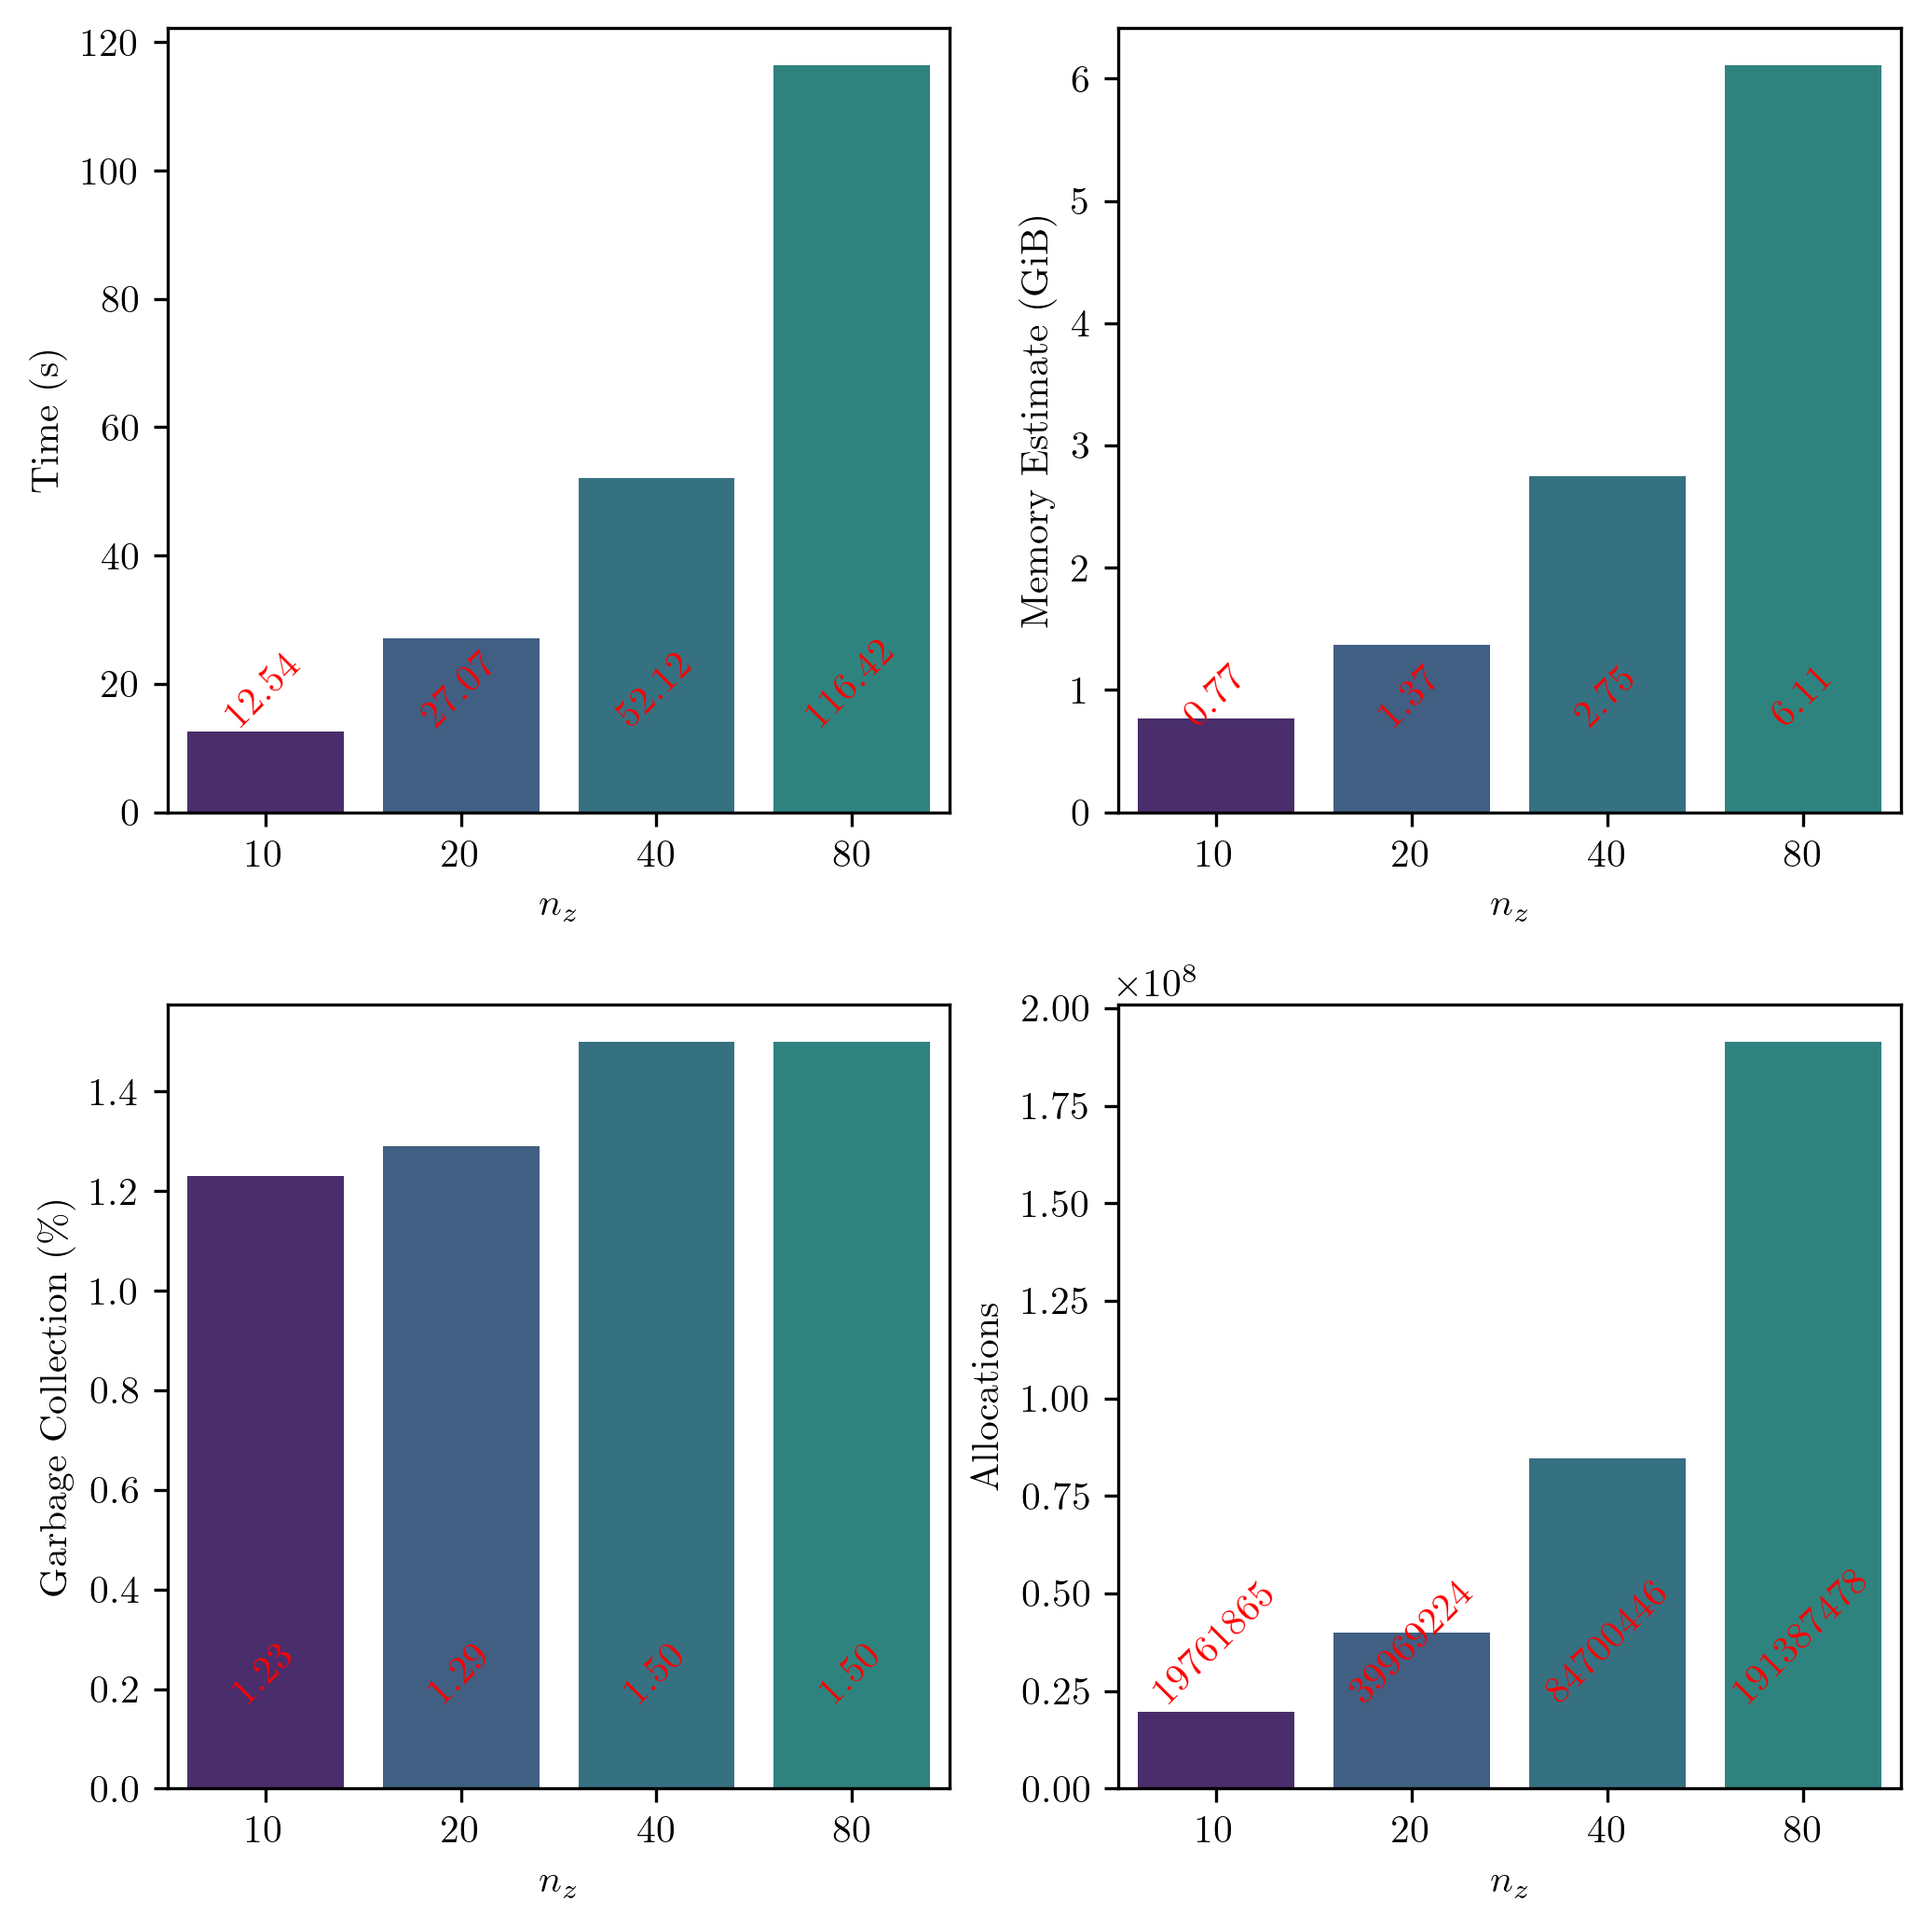
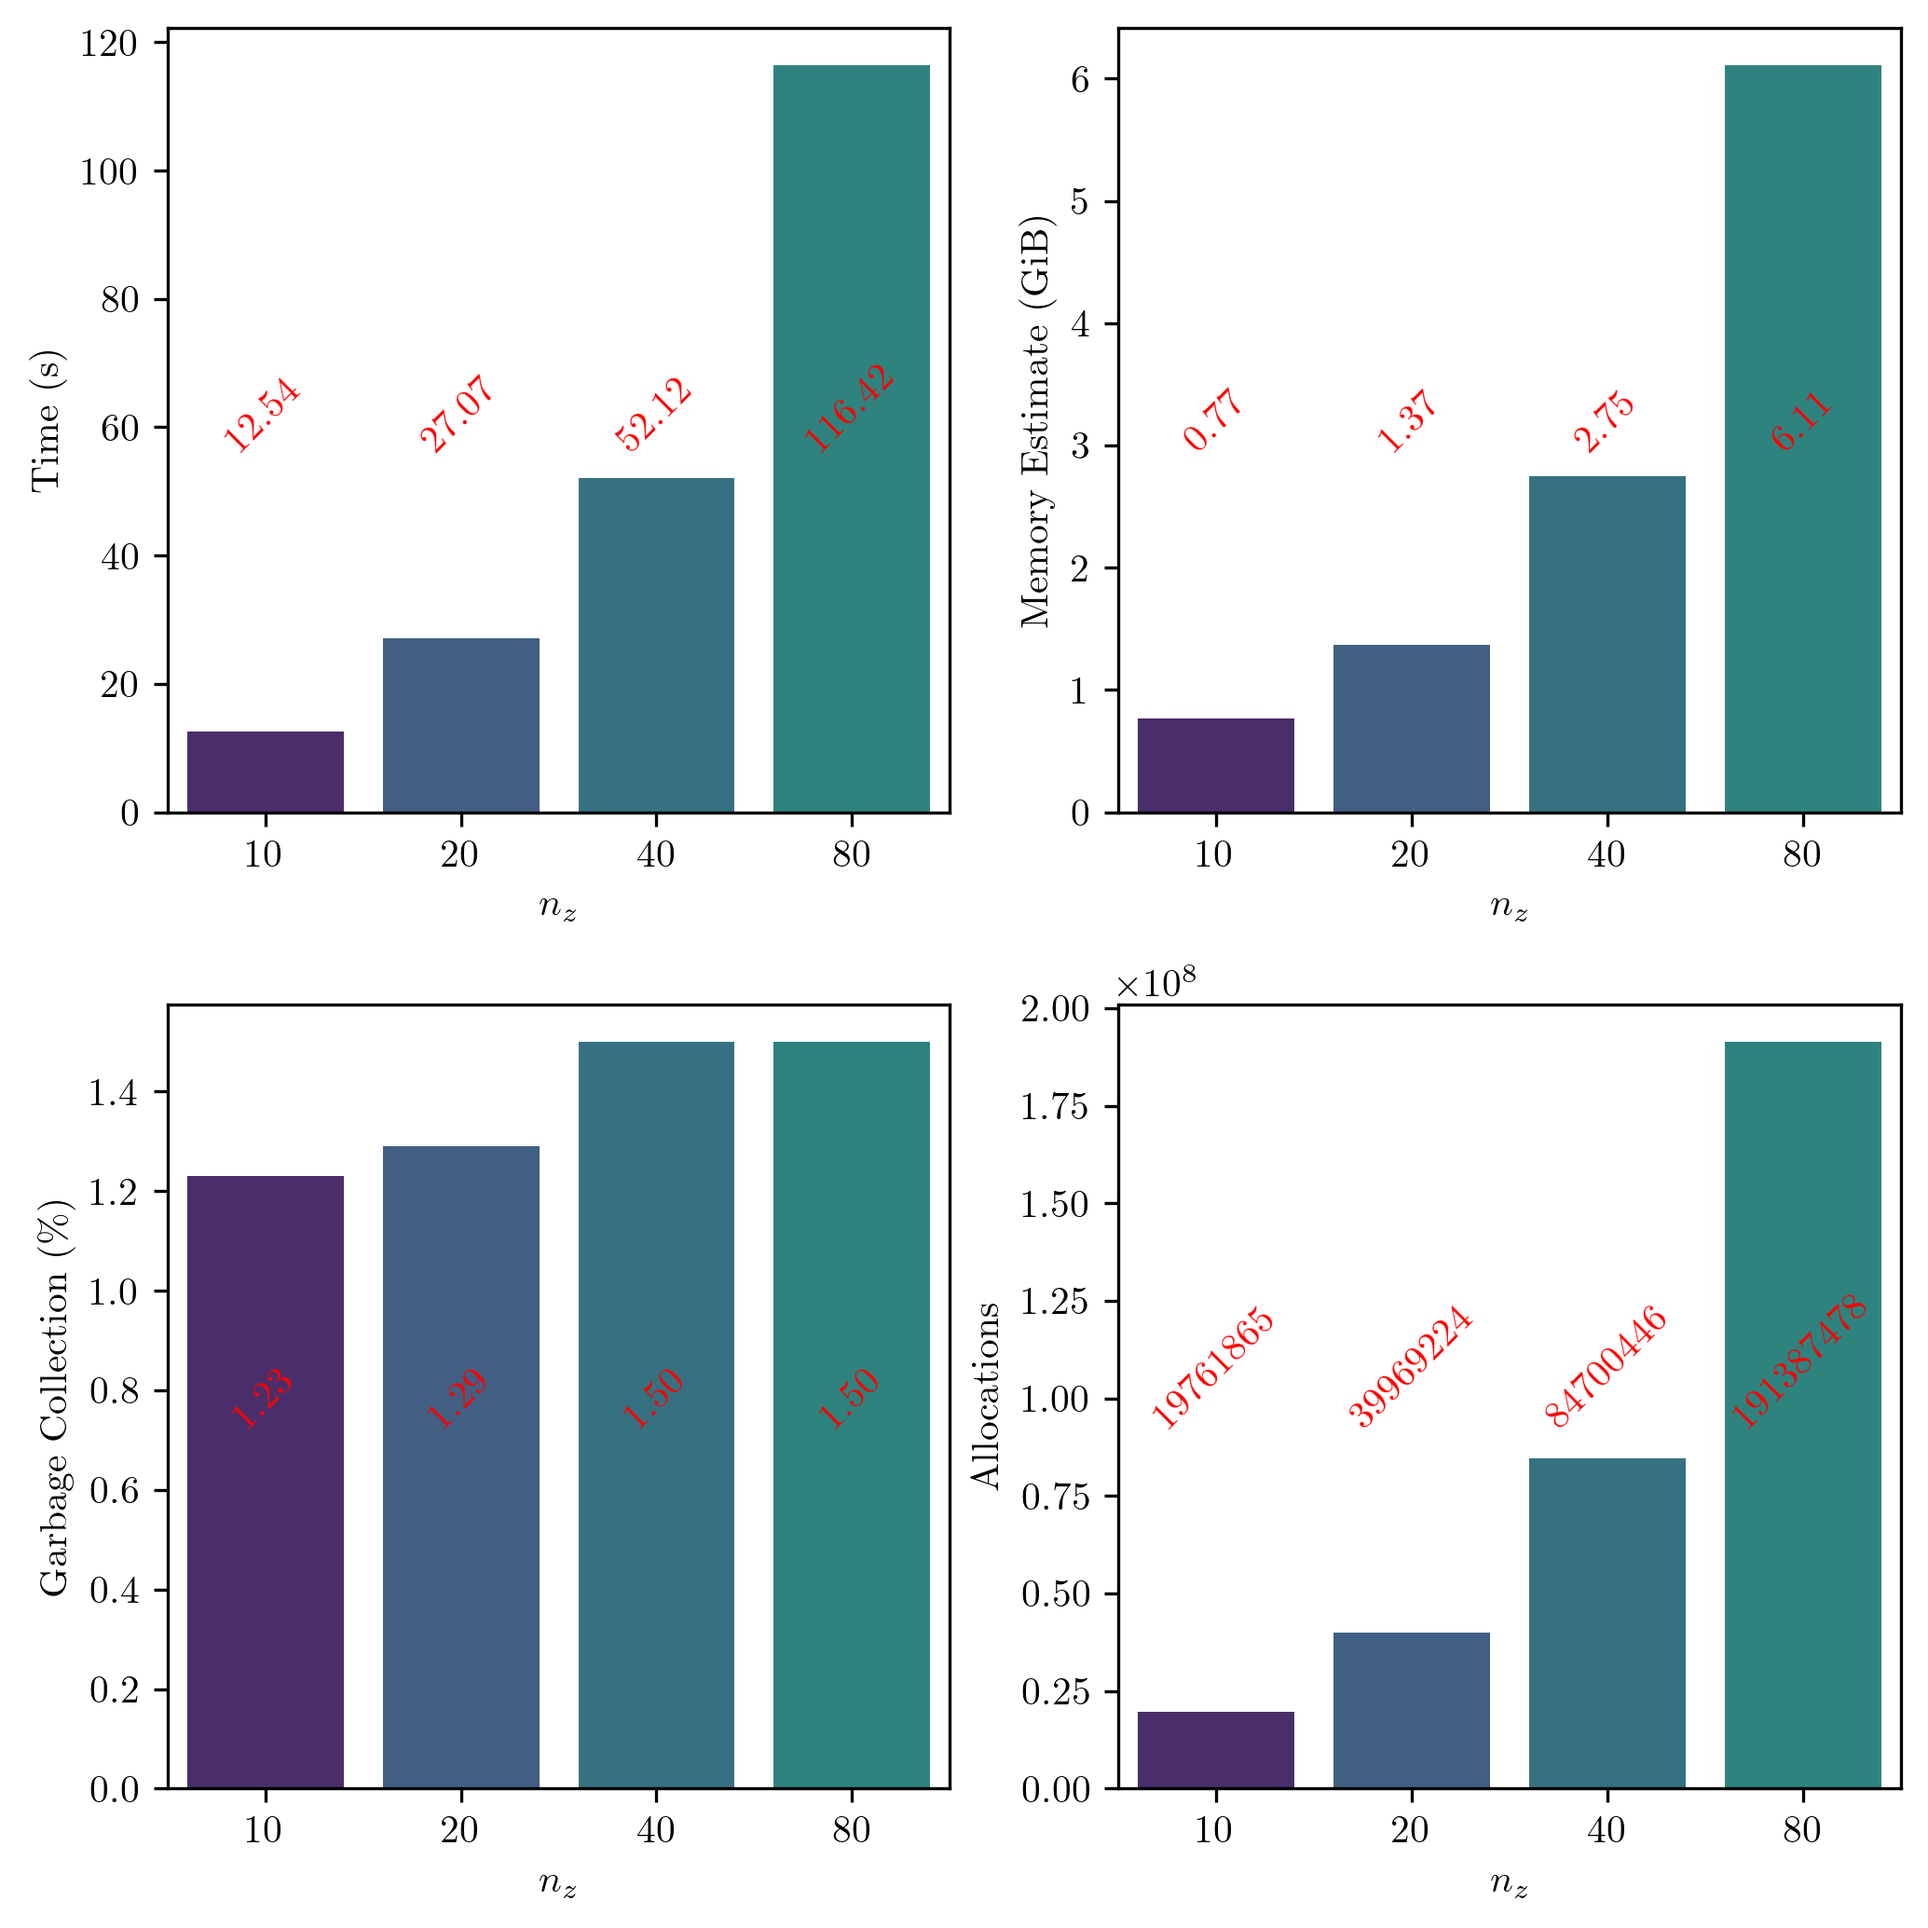
fix

diff --git a/plotting/benchmark/plot_cost.py b/plotting/benchmark/plot_cost.py
@@ -11,7 +11,7 @@ plt.rcParams.update({
 })
 
 latent_dim = pd.DataFrame({
-    "$n_z$" : [10, 20, 40, 80],
+    r"$n_z$" : [10, 20, 40, 80],
     "Time (s)" : [12.538, 27.069, 52.124, 116.419],
     "Memory Estimate (GiB)" : [0.765, 1.37, 2.75, 6.11],
     "Garbage Collection (%)" : [1.23, 1.29, 1.50, 1.50],
@@ -19,14 +19,14 @@ latent_dim = pd.DataFrame({
 })
 
 mala_steps = pd.DataFrame({
-    "$N_{\text{langevin}}$" : [5, 10, 15, 20],
+    r"$N_{\text{langevin}}$" : [5, 10, 15, 20],
     "Time (s)" : [115.341, 219.694, 328.726, 434.245],
     "Memory Estimate (GiB)" : [5.07, 8.54, 12.09, 15.59],
     "Garbage Collection (%)" : [6.60, 9.56, 11.10, 11.58],
     "Allocations" : [135688338, 225947183, 318703993, 409591568],
 })
 
-keys = ["$n_z$", "$N_{\text{langevin}}$"]
+keys = [r"$n_z$", r"$N_{\text{langevin}}$"]
 colours = ["viridis", "cividis"]
 
 def add_text_annotations(ax, round=False, red=0):
@@ -43,7 +43,7 @@ def add_text_annotations(ax, round=False, red=0):
 
         ax.text(
             bar.get_x() + bar.get_width() / 2, 
-            0.1 *ax.get_ylim()[1], 
+            0.45 *ax.get_ylim()[1], 
             text, ha='center', va='bottom', color=color, 
             rotation=45
         )
